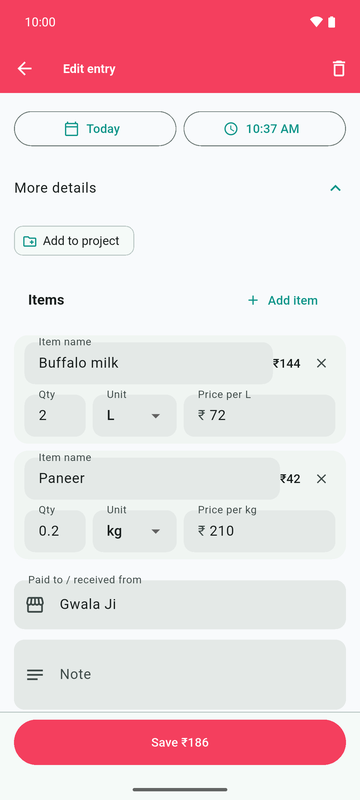
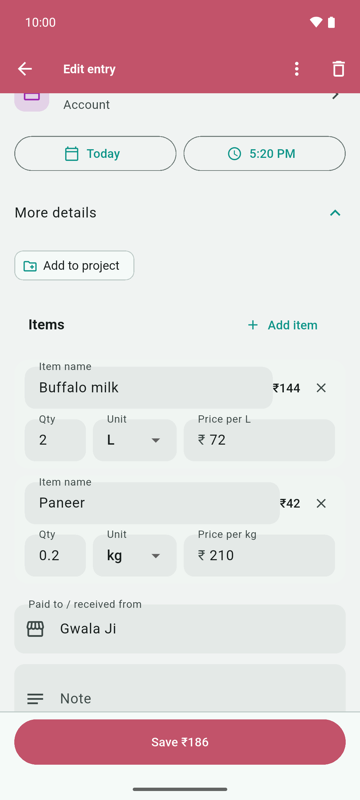
fix(theme): soften the light theme's hero, header and background colours

diff --git a/lib/core/theme.dart b/lib/core/theme.dart
@@ -12,14 +12,22 @@ const Color kIncomeColor = Color(0xFF10B981);
 const Color kTransferColor = Color(0xFF3B82F6);
 
 /// The brand gradient behind hero surfaces (dashboard balance, entry header).
+/// Deeper than the brand teal: a large vivid area was too harsh on the eyes.
 const LinearGradient kBrandGradient = LinearGradient(
   begin: Alignment.topLeft,
   end: Alignment.bottomRight,
-  colors: [kSeedColor, kSeedColorLight],
+  colors: [Color(0xFF0F766E), Color(0xFF0E8F84)],
 );
 
+/// Calmer versions of the kind colours for large surfaces such as the entry
+/// editor's header, where the vivid ones glared; text and dots keep those.
+const Color kExpenseSurfaceColor = Color(0xFFC2536A);
+const Color kIncomeSurfaceColor = Color(0xFF1F8A6A);
+const Color kTransferSurfaceColor = Color(0xFF3D6DB5);
+
 /// Scaffold / splash backgrounds, mirrored in android res (splash_background).
-const Color kLightBackground = Color(0xFFF8FAFC);
+/// A soft grey-teal rather than near white, which was glaring in daylight.
+const Color kLightBackground = Color(0xFFF0F3F2);
 const Color kDarkBackground = Color(0xFF0B1416);
 
 /// The colour of a kind of money ('expense', 'income', 'transfer');
@@ -28,6 +36,14 @@ Color kindColor(String kind, {required Color fallback}) => switch (kind) {
       'expense' => kExpenseColor,
       'income' => kIncomeColor,
       'transfer' => kTransferColor,
+      _ => fallback,
+    };
+
+/// [kindColor] for a large surface behind white text.
+Color kindSurfaceColor(String kind, {required Color fallback}) => switch (kind) {
+      'expense' => kExpenseSurfaceColor,
+      'income' => kIncomeSurfaceColor,
+      'transfer' => kTransferSurfaceColor,
       _ => fallback,
     };
 

diff --git a/lib/features/expense_editor/expense_editor_screen.dart b/lib/features/expense_editor/expense_editor_screen.dart
@@ -745,10 +745,10 @@ class _ExpenseEditorScreenState extends ConsumerState<ExpenseEditorScreen> {
     );
   }
 
-  /// The kind's colour behind the app bar and amount: coral expense, mint
+  /// The kind's colour behind the app bar and amount: rose expense, green
   /// income, blue transfer (a group expense is always an expense).
   Color _headerColor(BuildContext context) =>
-      kindColor(_kind, fallback: Theme.of(context).colorScheme.primary);
+      kindSurfaceColor(_kind, fallback: Theme.of(context).colorScheme.primary);
 
   /// The top of the form: the kind switch and a large "How much?" amount on
   /// the kind's colour, ending in a rounded edge the rest of the form sits on.
